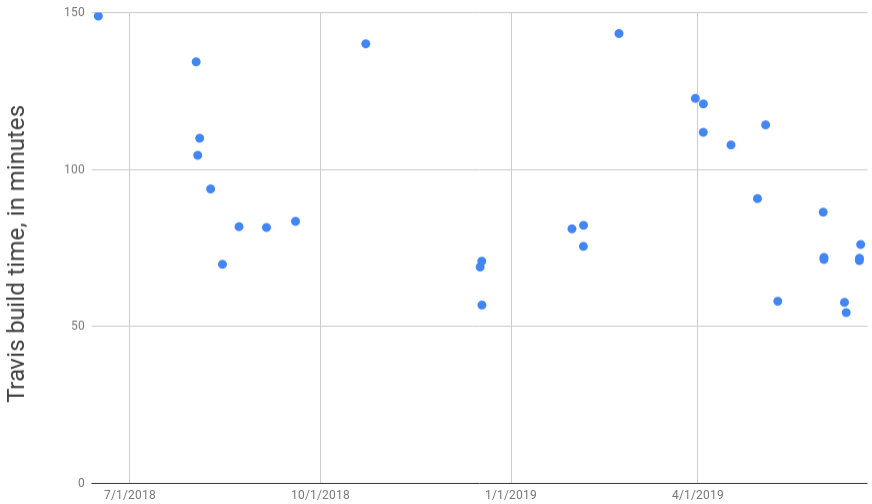
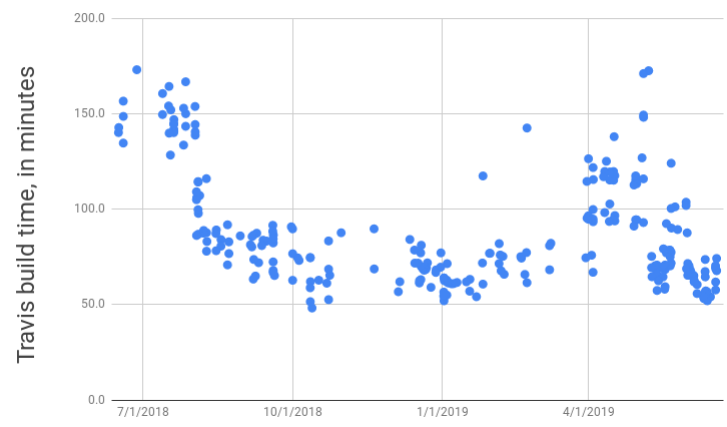
Better Travis plot

diff --git a/www/doc/1.3/release-notes.html b/www/doc/1.3/release-notes.html
@@ -65,7 +65,8 @@
     <figcaption>Herbie 1.3 is roughly 2× faster than Herbie 1.2,
     thanks to efforts throughout the year. This plot shows how long
     Herbie's CI takes to run, for every passing CI run this release
-    cycle.</figcaption>
+    cycle. In April we added more tests, causing the bump in Travis
+    time around then.</figcaption>
   </figure>
 
 

diff --git a/infra/travis_times.py b/infra/travis_times.py
@@ -13,22 +13,29 @@ def travis_req(after_number=None):
     req.add_header("Accept", "application/vnd.travis-ci.2.1+json")
     resp = urllib.request.urlopen(req)
     data = json.load(resp)
-    for build in data["builds"]:
-        yield build
+    return data["builds"], data["commits"]
 
 def get_travis():
+    commits = {}
     last = None
     while True:
-        for x in travis_req(after_number=last):
+        data, coms = travis_req(after_number=last)
+        for x in coms:
+            commits[x["id"]] = x
+        for x in data:
             last = x["number"]
+            if "commit_id" in x:
+                x["commit"] = commits[x["commit_id"]]
             yield x
 
 def times():
     for build in get_travis():
-        if "started_at" in build and build["started_at"] < "2018-06-15":
-            break
-        if build["event_type"] == "push" and build["duration"] and build["state"] == "passed":
-            yield build["started_at"], build["duration"]
+        if build["event_type"] != "push": continue
+        if not build["commit"]["committed_at"]: continue
+        if build["commit"]["committed_at"] < "2018-06-15": break
+        if build["commit"]["branch"] == "master": continue
+        if build["state"] != "passed": continue
+        yield build["started_at"], build["duration"]
 
 if __name__ == "__main__":
     for d, t in times():
